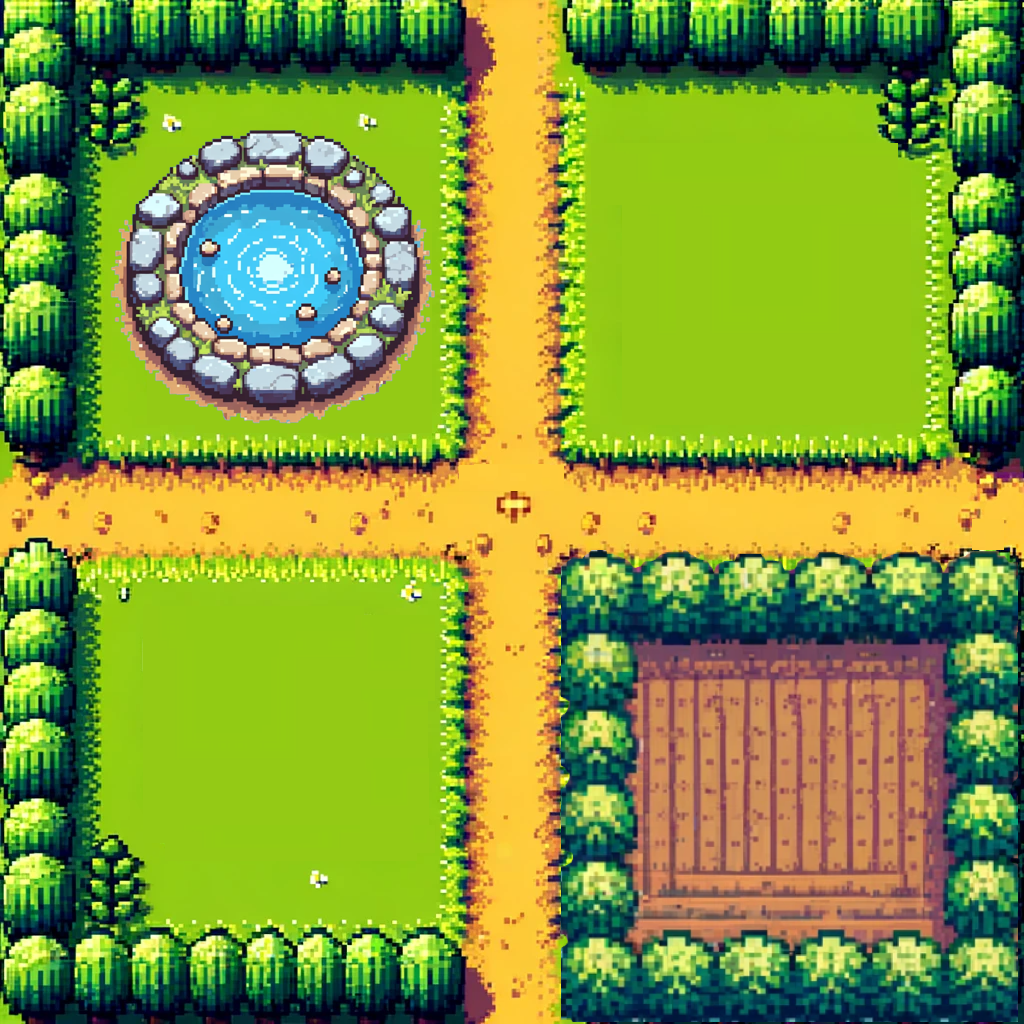
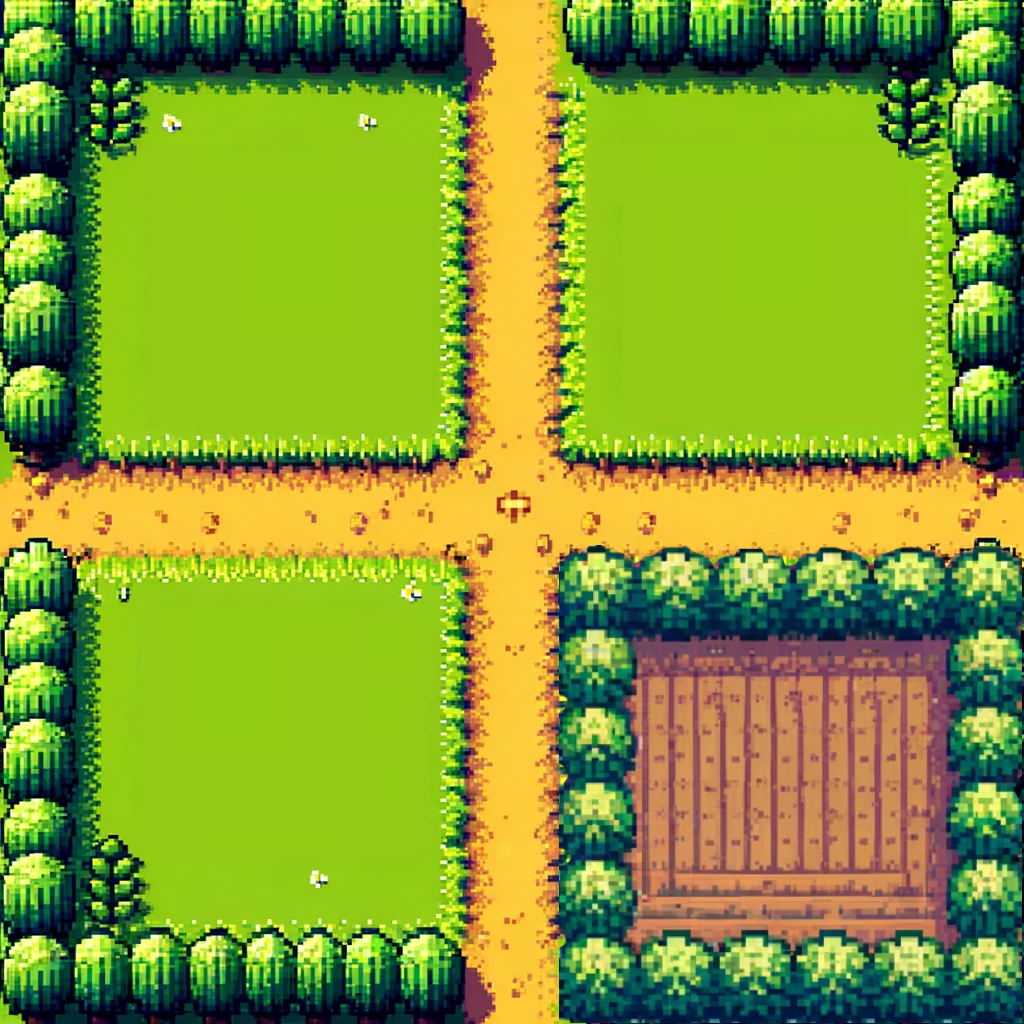
added well

Changed region(s): [[0.5312, 0.5, 1.0, 1.0], [0.0938, 0.125, 0.4375, 0.4375], [0.4375, 0.4375, 0.5, 0.4688]]

diff --git a/scripts/class.js b/scripts/class.js
@@ -345,6 +345,10 @@ class Bee{
   }
 }
 
+//////////////////////////////////////////////////////////////////////////////////////////////////////////////////////////////
+//////////////////////////////////////////////////////////////////////////////////////////////////////////////////////////////
+//////////////////////////////////////////////////////////////////////////////////////////////////////////////////////////////
+
 class Merchant{
   constructor(){
     this.tileX = 1;
@@ -374,3 +378,38 @@ class Merchant{
     }
   }
 }
+
+//////////////////////////////////////////////////////////////////////////////////////////////////////////////////////////////
+//////////////////////////////////////////////////////////////////////////////////////////////////////////////////////////////
+//////////////////////////////////////////////////////////////////////////////////////////////////////////////////////////////
+
+class Well{
+  constructor(){
+    this.tileX = 1;
+    this.tileY = 1;//the tile x and y on the map arraw defined in the top
+    this.size = tileSize*3;
+    this.image = wellImg;
+    this.room = room0;
+  }
+  collision(){
+    if(this.room == map){
+    let mouseTile = getTileUnderMouse(false);
+    // Check if the tile under the mouse is the same as the wheat's tile
+    if (mouseTile.tileX >=this.tileX&&mouseTile.tileX <this.tileX+2&&mouseTile.tileY >= this.tileY&&mouseTile.tileY<this.tileY+3&&state!=DIALOGUE_STATE) {
+      this.image = wellSelectImg;
+      if(mouseIsClicked){
+        mouseIsClicked = false;
+      }
+    }else{
+    this.image = wellImg;
+    } 
+  }
+  }
+  render(){
+    if(this.room == map){
+    this.image.resize(this.size, this.size);
+    image(this.image, this.tileX*tileSize, this.tileY*tileSize);
+    }
+  }
+}
+

diff --git a/scripts/init.js b/scripts/init.js
@@ -18,6 +18,10 @@ let m;
 let merchantImg;
 let merchantSelectImg;
 
+let well;
+let wellImg;
+let wellSelectImg;
+
 let catHealth = 100;//in percent
 let catIconImg;
 
@@ -75,6 +79,9 @@ function preload() {
 
   merchantSelectImg = loadImage('assets/NPC/merchant_select.png')
   merchantImg = loadImage('assets/NPC/merchant.png')
+
+  wellSelectImg = loadImage('assets/well_select.png')
+  wellImg = loadImage('assets/well.png')
 
   wheatImg = loadImage('assets/crops/wheat/wheat.png')
   wheatSeedImg = loadImage('assets/crops/wheat/wheat_seed.png')

diff --git a/scripts/function.js b/scripts/function.js
@@ -244,6 +244,8 @@ function drawCoinMeter(){
 }
 
 function renderNPCs(){
+    well.collision();
+    well.render();
     pig.collision();
     pig.render();
     bee.collision();
@@ -256,6 +258,7 @@ function drawToolIcons(){
     planter();
     harvester();
     shoveler();
+
 }
 
 function updateCrops(){

diff --git a/scripts/main.js b/scripts/main.js
@@ -17,6 +17,7 @@ function setup() {
   pig = new Pig(tileSize*2, 6, 6, room0);
   bee = new Bee(tileSize, 3, 1, room0);
   m = new Merchant();
+  well = new Well();
   
   frameRate(60);
 }
